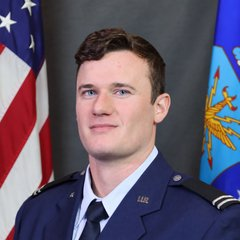
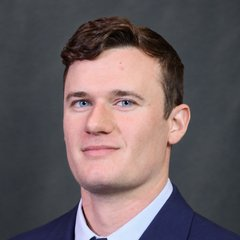
Set Bienfang to AS400 and tighten shared headshot crop

diff --git a/org-chart/proposals.js b/org-chart/proposals.js
@@ -73,7 +73,7 @@
   }
   function toNative(s,p){
     let key=Object.keys(PEOPLE).find(key=>PEOPLE[key][0]===s.last);
-    if(!key){key=s.last==='Bienfang'?'BienfangMitchell':'ProposedTBD';PEOPLE[key]=s.last==='Bienfang'?['Bienfang','Mitchell','']:['TBD','',''];}
+    if(!key){key=s.last==='Bienfang'?'BienfangMitchell':'ProposedTBD';PEOPLE[key]=s.last==='Bienfang'?['Bienfang','Mitchell','AS400']:['TBD','',''];}
     return {id:mapId(s.id),des:s.des,title:s.title,poc:[key,s.rank],parent:s.parent?mapId(s.parent):'russell',
       dir:/^A\d$/.test(s.id)?s.id:undefined,dirName:s.title.replace(/ Director$/,'').replace(/^Director of /,''),proposal:true,proposalField:s.id==='BC'||s.id==='BCL'||s.id.startsWith('bc-')||s.id.startsWith('bcl-'),proposalDuty:dutiesFor(s,p),proposalSource:p.source,proposalTeam:p.name};
   }
